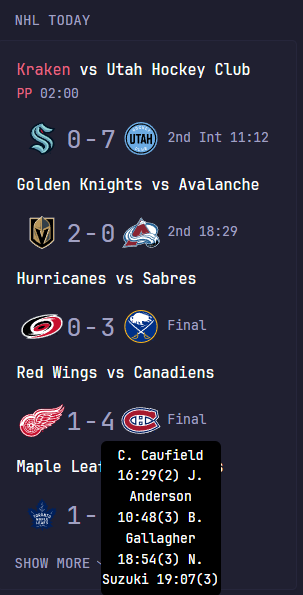
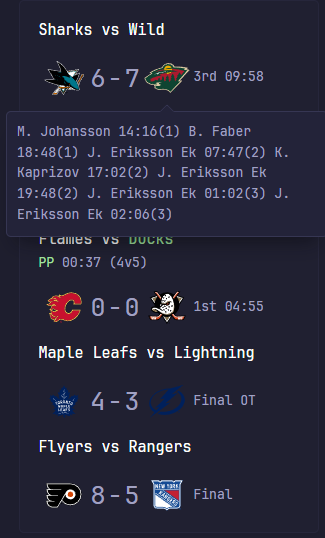
fix tooltips to use theme's native tooltips, updated tooltip screenshot

Changed region(s): [[0.0297, 0.0, 0.8911, 1.0], [0.8317, 0.2082, 0.8911, 0.2379]]

diff --git a/widgets/nhl-scores-by-jo-nike/README.md b/widgets/nhl-scores-by-jo-nike/README.md
@@ -9,33 +9,9 @@
 - type: custom-api
   title: NHL Today
   cache: 5s
-  url: https://api-web.nhle.com/v1/score/now 
+  url: https://api-web.nhle.com/v1/score/now
   template: |
     {{ $myTeam := "ALL" }}
-    
-    <style>
-    .tooltip {
-        position: relative;
-        display: inline-block;
-    }
-    .tooltip .tooltiptext {
-        visibility: hidden;
-        width: 120px;
-        background-color: black;
-        color: #fff;
-        text-align: center;
-        border-radius: 6px;
-        padding: 5px 0;
-
-        /* Position the tooltip */
-        position: absolute;
-        z-index: 1;
-    }
-    .tooltip:hover .tooltiptext {
-        visibility: visible;
-    }
-    </style>
-
     {{ $games := .JSON.Array "games" }}
     {{ define "gameItem" }}
       {{ $toolTipEnabled := true }}
@@ -134,36 +110,40 @@
       </table>
       <table>
           <tr>
-              <td class="tooltip">
-                  <img style="float: left" width="50" height="auto" src={{ .String "awayTeam.logo" }}>
+              <td data-popover-type="html">
                   {{ if and (not (eq $awayTeamScores "")) (eq $toolTipEnabled true) }}
-                      <span class="tooltiptext"> {{ $awayTeamScores }} </span>
+                      <div data-popover-html>
+                        {{ $awayTeamScores }}
+                      </div>
                   {{ end }}
+                <img style="float: left" width="50" height="auto" src={{ .String "awayTeam.logo" }}>
               </td>
-              <td class="tooltip">
-                <div>
+              <td data-popover-type="html">
+                  {{ if and (not (eq $awayTeamScores "")) (eq $toolTipEnabled true) }}
+                    <div data-popover-html>
+                      {{ $awayTeamScores }}
+                    </div>
+                  {{ end }}
                 <p style="font-size:25px"> {{ .String "awayTeam.score" }} </p>
-                {{ if and (not (eq $awayTeamScores "")) (eq $toolTipEnabled true) }}
-                    <span class="tooltiptext"> {{ $awayTeamScores }} </span>
-                {{ end }}
-                </div>
               </td>
               <td>
                   <p style="font-size:25px">-</p>
               </td>
-              <td class="tooltip">
-                <div>
-                <p style="font-size:25px"> {{ .String "homeTeam.score" }} </p>
+              <td data-popover-type="html">
                 {{ if and (not (eq $homeTeamScores "")) (eq $toolTipEnabled true) }}
-                    <span class="tooltiptext"> {{ $homeTeamScores }} </span>
+                  <div data-popover-html>
+                    {{ $homeTeamScores }}
+                  </div>
                 {{ end }}
-                </div>
+                <p style="font-size:25px"> {{ .String "homeTeam.score" }} </p>
               </td>
-              <td class="tooltip">
-                  <img style="float: left" width="50" height="auto" src={{ .String "homeTeam.logo" }}>
-                  {{ if and (not (eq $homeTeamScores "")) (eq $toolTipEnabled true) }}
-                  <span class="tooltiptext"> {{ $homeTeamScores }} </span>
-                  {{ end }}
+              <td data-popover-type="html">
+                {{ if and (not (eq $homeTeamScores "")) (eq $toolTipEnabled true) }}
+                  <div data-popover-html>
+                    {{ $homeTeamScores }}
+                  </div>
+                {{ end }}
+                <img style="float: left" width="50" height="auto" src={{ .String "homeTeam.logo" }}>
               </td>
               <td>
                   {{ $currentLabel }}
